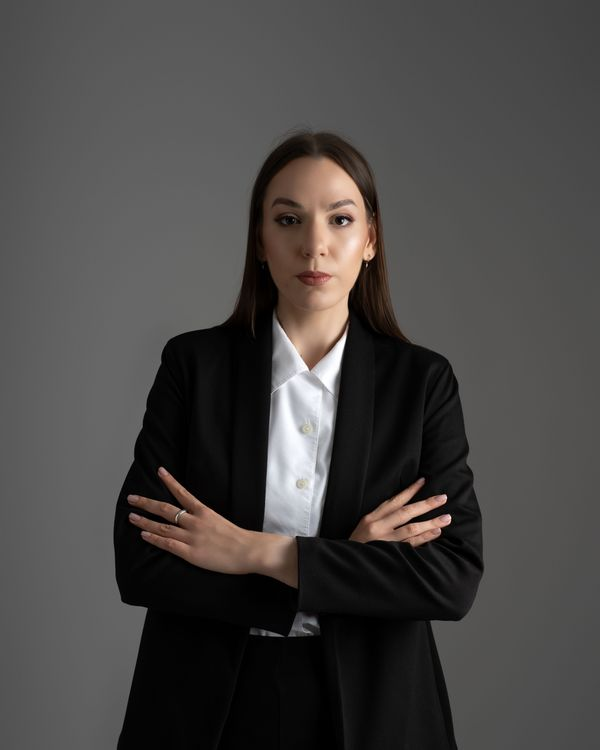
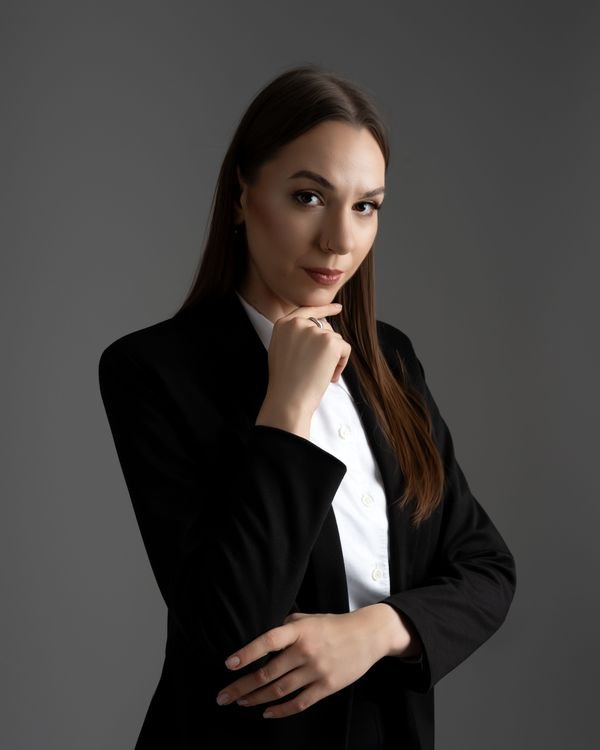
Nowe zdjęcie Aleksandry Szafrańskiej (sesja nr 11)

Changed region(s): [[0.15, 0.0613, 0.87, 1.0]]

diff --git a/index.html b/index.html
@@ -6,7 +6,7 @@
 <meta property="og:type" content="website"><meta property="og:locale" content="pl_PL">
 <link rel="icon" href="assets/favicon.svg" type="image/svg+xml">
 <link rel="preload" href="assets/fonts/serif.woff2" as="font" type="font/woff2" crossorigin>
-<link rel="stylesheet" href="assets/site.css?v=11231059"><script type="application/ld+json">{"@context": "https://schema.org", "@type": "LegalService", "name": "Kancelaria Adwokacka Julita Szataniak-Kulińska", "alternateName": "Kancelaria Adwokacka SZK", "url": "https://kancelariaszk.pl/", "telephone": "+48 667 580 170", "email": "biuro@kancelariaszk.pl", "openingHours": "Mo-Fr 08:00-18:00", "address": [{"@type": "PostalAddress", "streetAddress": "ul. Fabryczna 3 lok. 12", "postalCode": "05-500", "addressLocality": "Piaseczno", "addressCountry": "PL"}, {"@type": "PostalAddress", "streetAddress": "Plac Legionów 6", "postalCode": "98-300", "addressLocality": "Wieluń", "addressCountry": "PL"}], "founder": {"@type": "Person", "name": "Julita Szataniak-Kulińska", "jobTitle": "Adwokat"}}</script></head>
+<link rel="stylesheet" href="assets/site.css?v=11231107"><script type="application/ld+json">{"@context": "https://schema.org", "@type": "LegalService", "name": "Kancelaria Adwokacka Julita Szataniak-Kulińska", "alternateName": "Kancelaria Adwokacka SZK", "url": "https://kancelariaszk.pl/", "telephone": "+48 667 580 170", "email": "biuro@kancelariaszk.pl", "openingHours": "Mo-Fr 08:00-18:00", "address": [{"@type": "PostalAddress", "streetAddress": "ul. Fabryczna 3 lok. 12", "postalCode": "05-500", "addressLocality": "Piaseczno", "addressCountry": "PL"}, {"@type": "PostalAddress", "streetAddress": "Plac Legionów 6", "postalCode": "98-300", "addressLocality": "Wieluń", "addressCountry": "PL"}], "founder": {"@type": "Person", "name": "Julita Szataniak-Kulińska", "jobTitle": "Adwokat"}}</script></head>
 <body><div class="tb"><div class="wrap tb-in"><span class="tb-off"><svg class="ic" viewBox="0 0 24 24" fill="none" stroke="currentColor" stroke-width="1.4" stroke-linecap="round" stroke-linejoin="round" aria-hidden="true"><path d="M12 21s-7-6.1-7-11a7 7 0 0 1 14 0c0 4.9-7 11-7 11zM12 12.5a2.5 2.5 0 1 0 0-5 2.5 2.5 0 0 0 0 5"/></svg>Piaseczno, ul. Fabryczna 3 lok. 12 · Wieluń, Plac Legionów 6</span><span class="tb-c"><a href="tel:+48667580170"><svg class="ic" viewBox="0 0 24 24" fill="none" stroke="currentColor" stroke-width="1.4" stroke-linecap="round" stroke-linejoin="round" aria-hidden="true"><path d="M5 4h4l2 5-2.5 1.5a11 11 0 0 0 5 5L15 13l5 2v4a2 2 0 0 1-2 2A16 16 0 0 1 3 6a2 2 0 0 1 2-2"/></svg>667 580 170</a><a href="mailto:biuro@kancelariaszk.pl"><svg class="ic" viewBox="0 0 24 24" fill="none" stroke="currentColor" stroke-width="1.4" stroke-linecap="round" stroke-linejoin="round" aria-hidden="true"><path d="M3 6h18v12H3zM3 7l9 6 9-6"/></svg>biuro@kancelariaszk.pl</a><span class="tb-h"><svg class="ic" viewBox="0 0 24 24" fill="none" stroke="currentColor" stroke-width="1.4" stroke-linecap="round" stroke-linejoin="round" aria-hidden="true"><path d="M12 3a9 9 0 1 0 0 18 9 9 0 0 0 0-18zM12 7v5l3 2"/></svg>8.00–18.00</span></span></div></div><header class="hd"><div class="wrap hd-in">
 <a class="brand" href="./" aria-label="Kancelaria Adwokacka SZK – strona główna"><img src="assets/logo.svg" alt="Kancelaria Adwokacka Julita Szataniak-Kulińska" width="260" height="57"></a>
 <nav class="nav" id="nav" aria-label="Menu główne"><a href="o-kancelarii/">O kancelarii</a><a href="specjalizacje/">Specjalizacje</a><a href="zespol/">Zespół</a><a href="pomoc-prawna-online/">Pomoc prawna online</a><a href="kontakt/">Kontakt</a><a class="nav-m" href="tel:+48667580170"><svg class="ic" viewBox="0 0 24 24" fill="none" stroke="currentColor" stroke-width="1.4" stroke-linecap="round" stroke-linejoin="round" aria-hidden="true"><path d="M5 4h4l2 5-2.5 1.5a11 11 0 0 0 5 5L15 13l5 2v4a2 2 0 0 1-2 2A16 16 0 0 1 3 6a2 2 0 0 1 2-2"/></svg>667 580 170</a></nav>
@@ -92,4 +92,4 @@
 </div>
 <div class="ft-bot"><span>Kancelaria Adwokacka Julita Szataniak-Kulińska</span><span>NIP 7692236916 · REGON 386762794</span><span>© 2026</span></div>
 </div></footer>
-<script src="assets/site.js?v=11231059" defer></script></body></html>
+<script src="assets/site.js?v=11231107" defer></script></body></html>

diff --git a/specjalizacje/dziedziczenie-i-sukcesja/index.html b/specjalizacje/dziedziczenie-i-sukcesja/index.html
@@ -6,7 +6,7 @@
 <meta property="og:type" content="website"><meta property="og:locale" content="pl_PL">
 <link rel="icon" href="../../assets/favicon.svg" type="image/svg+xml">
 <link rel="preload" href="../../assets/fonts/serif.woff2" as="font" type="font/woff2" crossorigin>
-<link rel="stylesheet" href="../../assets/site.css?v=11231059"></head>
+<link rel="stylesheet" href="../../assets/site.css?v=11231107"></head>
 <body><div class="tb"><div class="wrap tb-in"><span class="tb-off"><svg class="ic" viewBox="0 0 24 24" fill="none" stroke="currentColor" stroke-width="1.4" stroke-linecap="round" stroke-linejoin="round" aria-hidden="true"><path d="M12 21s-7-6.1-7-11a7 7 0 0 1 14 0c0 4.9-7 11-7 11zM12 12.5a2.5 2.5 0 1 0 0-5 2.5 2.5 0 0 0 0 5"/></svg>Piaseczno, ul. Fabryczna 3 lok. 12 · Wieluń, Plac Legionów 6</span><span class="tb-c"><a href="tel:+48667580170"><svg class="ic" viewBox="0 0 24 24" fill="none" stroke="currentColor" stroke-width="1.4" stroke-linecap="round" stroke-linejoin="round" aria-hidden="true"><path d="M5 4h4l2 5-2.5 1.5a11 11 0 0 0 5 5L15 13l5 2v4a2 2 0 0 1-2 2A16 16 0 0 1 3 6a2 2 0 0 1 2-2"/></svg>667 580 170</a><a href="mailto:biuro@kancelariaszk.pl"><svg class="ic" viewBox="0 0 24 24" fill="none" stroke="currentColor" stroke-width="1.4" stroke-linecap="round" stroke-linejoin="round" aria-hidden="true"><path d="M3 6h18v12H3zM3 7l9 6 9-6"/></svg>biuro@kancelariaszk.pl</a><span class="tb-h"><svg class="ic" viewBox="0 0 24 24" fill="none" stroke="currentColor" stroke-width="1.4" stroke-linecap="round" stroke-linejoin="round" aria-hidden="true"><path d="M12 3a9 9 0 1 0 0 18 9 9 0 0 0 0-18zM12 7v5l3 2"/></svg>8.00–18.00</span></span></div></div><header class="hd"><div class="wrap hd-in">
 <a class="brand" href="../../" aria-label="Kancelaria Adwokacka SZK – strona główna"><img src="../../assets/logo.svg" alt="Kancelaria Adwokacka Julita Szataniak-Kulińska" width="260" height="57"></a>
 <nav class="nav" id="nav" aria-label="Menu główne"><a href="../../o-kancelarii/">O kancelarii</a><a href="../../specjalizacje/" class=on aria-current=page>Specjalizacje</a><a href="../../zespol/">Zespół</a><a href="../../pomoc-prawna-online/">Pomoc prawna online</a><a href="../../kontakt/">Kontakt</a><a class="nav-m" href="tel:+48667580170"><svg class="ic" viewBox="0 0 24 24" fill="none" stroke="currentColor" stroke-width="1.4" stroke-linecap="round" stroke-linejoin="round" aria-hidden="true"><path d="M5 4h4l2 5-2.5 1.5a11 11 0 0 0 5 5L15 13l5 2v4a2 2 0 0 1-2 2A16 16 0 0 1 3 6a2 2 0 0 1 2-2"/></svg>667 580 170</a></nav>
@@ -37,4 +37,4 @@
 </div>
 <div class="ft-bot"><span>Kancelaria Adwokacka Julita Szataniak-Kulińska</span><span>NIP 7692236916 · REGON 386762794</span><span>© 2026</span></div>
 </div></footer>
-<script src="../../assets/site.js?v=11231059" defer></script></body></html>
+<script src="../../assets/site.js?v=11231107" defer></script></body></html>

diff --git a/specjalizacje/kontrakty-i-negocjacje/index.html b/specjalizacje/kontrakty-i-negocjacje/index.html
@@ -6,7 +6,7 @@
 <meta property="og:type" content="website"><meta property="og:locale" content="pl_PL">
 <link rel="icon" href="../../assets/favicon.svg" type="image/svg+xml">
 <link rel="preload" href="../../assets/fonts/serif.woff2" as="font" type="font/woff2" crossorigin>
-<link rel="stylesheet" href="../../assets/site.css?v=11231059"></head>
+<link rel="stylesheet" href="../../assets/site.css?v=11231107"></head>
 <body><div class="tb"><div class="wrap tb-in"><span class="tb-off"><svg class="ic" viewBox="0 0 24 24" fill="none" stroke="currentColor" stroke-width="1.4" stroke-linecap="round" stroke-linejoin="round" aria-hidden="true"><path d="M12 21s-7-6.1-7-11a7 7 0 0 1 14 0c0 4.9-7 11-7 11zM12 12.5a2.5 2.5 0 1 0 0-5 2.5 2.5 0 0 0 0 5"/></svg>Piaseczno, ul. Fabryczna 3 lok. 12 · Wieluń, Plac Legionów 6</span><span class="tb-c"><a href="tel:+48667580170"><svg class="ic" viewBox="0 0 24 24" fill="none" stroke="currentColor" stroke-width="1.4" stroke-linecap="round" stroke-linejoin="round" aria-hidden="true"><path d="M5 4h4l2 5-2.5 1.5a11 11 0 0 0 5 5L15 13l5 2v4a2 2 0 0 1-2 2A16 16 0 0 1 3 6a2 2 0 0 1 2-2"/></svg>667 580 170</a><a href="mailto:biuro@kancelariaszk.pl"><svg class="ic" viewBox="0 0 24 24" fill="none" stroke="currentColor" stroke-width="1.4" stroke-linecap="round" stroke-linejoin="round" aria-hidden="true"><path d="M3 6h18v12H3zM3 7l9 6 9-6"/></svg>biuro@kancelariaszk.pl</a><span class="tb-h"><svg class="ic" viewBox="0 0 24 24" fill="none" stroke="currentColor" stroke-width="1.4" stroke-linecap="round" stroke-linejoin="round" aria-hidden="true"><path d="M12 3a9 9 0 1 0 0 18 9 9 0 0 0 0-18zM12 7v5l3 2"/></svg>8.00–18.00</span></span></div></div><header class="hd"><div class="wrap hd-in">
 <a class="brand" href="../../" aria-label="Kancelaria Adwokacka SZK – strona główna"><img src="../../assets/logo.svg" alt="Kancelaria Adwokacka Julita Szataniak-Kulińska" width="260" height="57"></a>
 <nav class="nav" id="nav" aria-label="Menu główne"><a href="../../o-kancelarii/">O kancelarii</a><a href="../../specjalizacje/" class=on aria-current=page>Specjalizacje</a><a href="../../zespol/">Zespół</a><a href="../../pomoc-prawna-online/">Pomoc prawna online</a><a href="../../kontakt/">Kontakt</a><a class="nav-m" href="tel:+48667580170"><svg class="ic" viewBox="0 0 24 24" fill="none" stroke="currentColor" stroke-width="1.4" stroke-linecap="round" stroke-linejoin="round" aria-hidden="true"><path d="M5 4h4l2 5-2.5 1.5a11 11 0 0 0 5 5L15 13l5 2v4a2 2 0 0 1-2 2A16 16 0 0 1 3 6a2 2 0 0 1 2-2"/></svg>667 580 170</a></nav>
@@ -37,4 +37,4 @@
 </div>
 <div class="ft-bot"><span>Kancelaria Adwokacka Julita Szataniak-Kulińska</span><span>NIP 7692236916 · REGON 386762794</span><span>© 2026</span></div>
 </div></footer>
-<script src="../../assets/site.js?v=11231059" defer></script></body></html>
+<script src="../../assets/site.js?v=11231107" defer></script></body></html>

diff --git a/specjalizacje/negocjacje-i-ugody/index.html b/specjalizacje/negocjacje-i-ugody/index.html
@@ -6,7 +6,7 @@
 <meta property="og:type" content="website"><meta property="og:locale" content="pl_PL">
 <link rel="icon" href="../../assets/favicon.svg" type="image/svg+xml">
 <link rel="preload" href="../../assets/fonts/serif.woff2" as="font" type="font/woff2" crossorigin>
-<link rel="stylesheet" href="../../assets/site.css?v=11231059"></head>
+<link rel="stylesheet" href="../../assets/site.css?v=11231107"></head>
 <body><div class="tb"><div class="wrap tb-in"><span class="tb-off"><svg class="ic" viewBox="0 0 24 24" fill="none" stroke="currentColor" stroke-width="1.4" stroke-linecap="round" stroke-linejoin="round" aria-hidden="true"><path d="M12 21s-7-6.1-7-11a7 7 0 0 1 14 0c0 4.9-7 11-7 11zM12 12.5a2.5 2.5 0 1 0 0-5 2.5 2.5 0 0 0 0 5"/></svg>Piaseczno, ul. Fabryczna 3 lok. 12 · Wieluń, Plac Legionów 6</span><span class="tb-c"><a href="tel:+48667580170"><svg class="ic" viewBox="0 0 24 24" fill="none" stroke="currentColor" stroke-width="1.4" stroke-linecap="round" stroke-linejoin="round" aria-hidden="true"><path d="M5 4h4l2 5-2.5 1.5a11 11 0 0 0 5 5L15 13l5 2v4a2 2 0 0 1-2 2A16 16 0 0 1 3 6a2 2 0 0 1 2-2"/></svg>667 580 170</a><a href="mailto:biuro@kancelariaszk.pl"><svg class="ic" viewBox="0 0 24 24" fill="none" stroke="currentColor" stroke-width="1.4" stroke-linecap="round" stroke-linejoin="round" aria-hidden="true"><path d="M3 6h18v12H3zM3 7l9 6 9-6"/></svg>biuro@kancelariaszk.pl</a><span class="tb-h"><svg class="ic" viewBox="0 0 24 24" fill="none" stroke="currentColor" stroke-width="1.4" stroke-linecap="round" stroke-linejoin="round" aria-hidden="true"><path d="M12 3a9 9 0 1 0 0 18 9 9 0 0 0 0-18zM12 7v5l3 2"/></svg>8.00–18.00</span></span></div></div><header class="hd"><div class="wrap hd-in">
 <a class="brand" href="../../" aria-label="Kancelaria Adwokacka SZK – strona główna"><img src="../../assets/logo.svg" alt="Kancelaria Adwokacka Julita Szataniak-Kulińska" width="260" height="57"></a>
 <nav class="nav" id="nav" aria-label="Menu główne"><a href="../../o-kancelarii/">O kancelarii</a><a href="../../specjalizacje/" class=on aria-current=page>Specjalizacje</a><a href="../../zespol/">Zespół</a><a href="../../pomoc-prawna-online/">Pomoc prawna online</a><a href="../../kontakt/">Kontakt</a><a class="nav-m" href="tel:+48667580170"><svg class="ic" viewBox="0 0 24 24" fill="none" stroke="currentColor" stroke-width="1.4" stroke-linecap="round" stroke-linejoin="round" aria-hidden="true"><path d="M5 4h4l2 5-2.5 1.5a11 11 0 0 0 5 5L15 13l5 2v4a2 2 0 0 1-2 2A16 16 0 0 1 3 6a2 2 0 0 1 2-2"/></svg>667 580 170</a></nav>
@@ -37,4 +37,4 @@
 </div>
 <div class="ft-bot"><span>Kancelaria Adwokacka Julita Szataniak-Kulińska</span><span>NIP 7692236916 · REGON 386762794</span><span>© 2026</span></div>
 </div></footer>
-<script src="../../assets/site.js?v=11231059" defer></script></body></html>
+<script src="../../assets/site.js?v=11231107" defer></script></body></html>

diff --git a/specjalizacje/nieruchomosci-i-inwestycje/index.html b/specjalizacje/nieruchomosci-i-inwestycje/index.html
@@ -6,7 +6,7 @@
 <meta property="og:type" content="website"><meta property="og:locale" content="pl_PL">
 <link rel="icon" href="../../assets/favicon.svg" type="image/svg+xml">
 <link rel="preload" href="../../assets/fonts/serif.woff2" as="font" type="font/woff2" crossorigin>
-<link rel="stylesheet" href="../../assets/site.css?v=11231059"></head>
+<link rel="stylesheet" href="../../assets/site.css?v=11231107"></head>
 <body><div class="tb"><div class="wrap tb-in"><span class="tb-off"><svg class="ic" viewBox="0 0 24 24" fill="none" stroke="currentColor" stroke-width="1.4" stroke-linecap="round" stroke-linejoin="round" aria-hidden="true"><path d="M12 21s-7-6.1-7-11a7 7 0 0 1 14 0c0 4.9-7 11-7 11zM12 12.5a2.5 2.5 0 1 0 0-5 2.5 2.5 0 0 0 0 5"/></svg>Piaseczno, ul. Fabryczna 3 lok. 12 · Wieluń, Plac Legionów 6</span><span class="tb-c"><a href="tel:+48667580170"><svg class="ic" viewBox="0 0 24 24" fill="none" stroke="currentColor" stroke-width="1.4" stroke-linecap="round" stroke-linejoin="round" aria-hidden="true"><path d="M5 4h4l2 5-2.5 1.5a11 11 0 0 0 5 5L15 13l5 2v4a2 2 0 0 1-2 2A16 16 0 0 1 3 6a2 2 0 0 1 2-2"/></svg>667 580 170</a><a href="mailto:biuro@kancelariaszk.pl"><svg class="ic" viewBox="0 0 24 24" fill="none" stroke="currentColor" stroke-width="1.4" stroke-linecap="round" stroke-linejoin="round" aria-hidden="true"><path d="M3 6h18v12H3zM3 7l9 6 9-6"/></svg>biuro@kancelariaszk.pl</a><span class="tb-h"><svg class="ic" viewBox="0 0 24 24" fill="none" stroke="currentColor" stroke-width="1.4" stroke-linecap="round" stroke-linejoin="round" aria-hidden="true"><path d="M12 3a9 9 0 1 0 0 18 9 9 0 0 0 0-18zM12 7v5l3 2"/></svg>8.00–18.00</span></span></div></div><header class="hd"><div class="wrap hd-in">
 <a class="brand" href="../../" aria-label="Kancelaria Adwokacka SZK – strona główna"><img src="../../assets/logo.svg" alt="Kancelaria Adwokacka Julita Szataniak-Kulińska" width="260" height="57"></a>
 <nav class="nav" id="nav" aria-label="Menu główne"><a href="../../o-kancelarii/">O kancelarii</a><a href="../../specjalizacje/" class=on aria-current=page>Specjalizacje</a><a href="../../zespol/">Zespół</a><a href="../../pomoc-prawna-online/">Pomoc prawna online</a><a href="../../kontakt/">Kontakt</a><a class="nav-m" href="tel:+48667580170"><svg class="ic" viewBox="0 0 24 24" fill="none" stroke="currentColor" stroke-width="1.4" stroke-linecap="round" stroke-linejoin="round" aria-hidden="true"><path d="M5 4h4l2 5-2.5 1.5a11 11 0 0 0 5 5L15 13l5 2v4a2 2 0 0 1-2 2A16 16 0 0 1 3 6a2 2 0 0 1 2-2"/></svg>667 580 170</a></nav>
@@ -37,4 +37,4 @@
 </div>
 <div class="ft-bot"><span>Kancelaria Adwokacka Julita Szataniak-Kulińska</span><span>NIP 7692236916 · REGON 386762794</span><span>© 2026</span></div>
 </div></footer>
-<script src="../../assets/site.js?v=11231059" defer></script></body></html>
+<script src="../../assets/site.js?v=11231107" defer></script></body></html>

diff --git a/specjalizacje/obsluga-prawna-przedsiebiorcow/index.html b/specjalizacje/obsluga-prawna-przedsiebiorcow/index.html
@@ -6,7 +6,7 @@
 <meta property="og:type" content="website"><meta property="og:locale" content="pl_PL">
 <link rel="icon" href="../../assets/favicon.svg" type="image/svg+xml">
 <link rel="preload" href="../../assets/fonts/serif.woff2" as="font" type="font/woff2" crossorigin>
-<link rel="stylesheet" href="../../assets/site.css?v=11231059"></head>
+<link rel="stylesheet" href="../../assets/site.css?v=11231107"></head>
 <body><div class="tb"><div class="wrap tb-in"><span class="tb-off"><svg class="ic" viewBox="0 0 24 24" fill="none" stroke="currentColor" stroke-width="1.4" stroke-linecap="round" stroke-linejoin="round" aria-hidden="true"><path d="M12 21s-7-6.1-7-11a7 7 0 0 1 14 0c0 4.9-7 11-7 11zM12 12.5a2.5 2.5 0 1 0 0-5 2.5 2.5 0 0 0 0 5"/></svg>Piaseczno, ul. Fabryczna 3 lok. 12 · Wieluń, Plac Legionów 6</span><span class="tb-c"><a href="tel:+48667580170"><svg class="ic" viewBox="0 0 24 24" fill="none" stroke="currentColor" stroke-width="1.4" stroke-linecap="round" stroke-linejoin="round" aria-hidden="true"><path d="M5 4h4l2 5-2.5 1.5a11 11 0 0 0 5 5L15 13l5 2v4a2 2 0 0 1-2 2A16 16 0 0 1 3 6a2 2 0 0 1 2-2"/></svg>667 580 170</a><a href="mailto:biuro@kancelariaszk.pl"><svg class="ic" viewBox="0 0 24 24" fill="none" stroke="currentColor" stroke-width="1.4" stroke-linecap="round" stroke-linejoin="round" aria-hidden="true"><path d="M3 6h18v12H3zM3 7l9 6 9-6"/></svg>biuro@kancelariaszk.pl</a><span class="tb-h"><svg class="ic" viewBox="0 0 24 24" fill="none" stroke="currentColor" stroke-width="1.4" stroke-linecap="round" stroke-linejoin="round" aria-hidden="true"><path d="M12 3a9 9 0 1 0 0 18 9 9 0 0 0 0-18zM12 7v5l3 2"/></svg>8.00–18.00</span></span></div></div><header class="hd"><div class="wrap hd-in">
 <a class="brand" href="../../" aria-label="Kancelaria Adwokacka SZK – strona główna"><img src="../../assets/logo.svg" alt="Kancelaria Adwokacka Julita Szataniak-Kulińska" width="260" height="57"></a>
 <nav class="nav" id="nav" aria-label="Menu główne"><a href="../../o-kancelarii/">O kancelarii</a><a href="../../specjalizacje/" class=on aria-current=page>Specjalizacje</a><a href="../../zespol/">Zespół</a><a href="../../pomoc-prawna-online/">Pomoc prawna online</a><a href="../../kontakt/">Kontakt</a><a class="nav-m" href="tel:+48667580170"><svg class="ic" viewBox="0 0 24 24" fill="none" stroke="currentColor" stroke-width="1.4" stroke-linecap="round" stroke-linejoin="round" aria-hidden="true"><path d="M5 4h4l2 5-2.5 1.5a11 11 0 0 0 5 5L15 13l5 2v4a2 2 0 0 1-2 2A16 16 0 0 1 3 6a2 2 0 0 1 2-2"/></svg>667 580 170</a></nav>
@@ -37,4 +37,4 @@
 </div>
 <div class="ft-bot"><span>Kancelaria Adwokacka Julita Szataniak-Kulińska</span><span>NIP 7692236916 · REGON 386762794</span><span>© 2026</span></div>
 </div></footer>
-<script src="../../assets/site.js?v=11231059" defer></script></body></html>
+<script src="../../assets/site.js?v=11231107" defer></script></body></html>

diff --git a/specjalizacje/ochrona-dobr-osobistych/index.html b/specjalizacje/ochrona-dobr-osobistych/index.html
@@ -6,7 +6,7 @@
 <meta property="og:type" content="website"><meta property="og:locale" content="pl_PL">
 <link rel="icon" href="../../assets/favicon.svg" type="image/svg+xml">
 <link rel="preload" href="../../assets/fonts/serif.woff2" as="font" type="font/woff2" crossorigin>
-<link rel="stylesheet" href="../../assets/site.css?v=11231059"></head>
+<link rel="stylesheet" href="../../assets/site.css?v=11231107"></head>
 <body><div class="tb"><div class="wrap tb-in"><span class="tb-off"><svg class="ic" viewBox="0 0 24 24" fill="none" stroke="currentColor" stroke-width="1.4" stroke-linecap="round" stroke-linejoin="round" aria-hidden="true"><path d="M12 21s-7-6.1-7-11a7 7 0 0 1 14 0c0 4.9-7 11-7 11zM12 12.5a2.5 2.5 0 1 0 0-5 2.5 2.5 0 0 0 0 5"/></svg>Piaseczno, ul. Fabryczna 3 lok. 12 · Wieluń, Plac Legionów 6</span><span class="tb-c"><a href="tel:+48667580170"><svg class="ic" viewBox="0 0 24 24" fill="none" stroke="currentColor" stroke-width="1.4" stroke-linecap="round" stroke-linejoin="round" aria-hidden="true"><path d="M5 4h4l2 5-2.5 1.5a11 11 0 0 0 5 5L15 13l5 2v4a2 2 0 0 1-2 2A16 16 0 0 1 3 6a2 2 0 0 1 2-2"/></svg>667 580 170</a><a href="mailto:biuro@kancelariaszk.pl"><svg class="ic" viewBox="0 0 24 24" fill="none" stroke="currentColor" stroke-width="1.4" stroke-linecap="round" stroke-linejoin="round" aria-hidden="true"><path d="M3 6h18v12H3zM3 7l9 6 9-6"/></svg>biuro@kancelariaszk.pl</a><span class="tb-h"><svg class="ic" viewBox="0 0 24 24" fill="none" stroke="currentColor" stroke-width="1.4" stroke-linecap="round" stroke-linejoin="round" aria-hidden="true"><path d="M12 3a9 9 0 1 0 0 18 9 9 0 0 0 0-18zM12 7v5l3 2"/></svg>8.00–18.00</span></span></div></div><header class="hd"><div class="wrap hd-in">
 <a class="brand" href="../../" aria-label="Kancelaria Adwokacka SZK – strona główna"><img src="../../assets/logo.svg" alt="Kancelaria Adwokacka Julita Szataniak-Kulińska" width="260" height="57"></a>
 <nav class="nav" id="nav" aria-label="Menu główne"><a href="../../o-kancelarii/">O kancelarii</a><a href="../../specjalizacje/" class=on aria-current=page>Specjalizacje</a><a href="../../zespol/">Zespół</a><a href="../../pomoc-prawna-online/">Pomoc prawna online</a><a href="../../kontakt/">Kontakt</a><a class="nav-m" href="tel:+48667580170"><svg class="ic" viewBox="0 0 24 24" fill="none" stroke="currentColor" stroke-width="1.4" stroke-linecap="round" stroke-linejoin="round" aria-hidden="true"><path d="M5 4h4l2 5-2.5 1.5a11 11 0 0 0 5 5L15 13l5 2v4a2 2 0 0 1-2 2A16 16 0 0 1 3 6a2 2 0 0 1 2-2"/></svg>667 580 170</a></nav>
@@ -37,4 +37,4 @@
 </div>
 <div class="ft-bot"><span>Kancelaria Adwokacka Julita Szataniak-Kulińska</span><span>NIP 7692236916 · REGON 386762794</span><span>© 2026</span></div>
 </div></footer>
-<script src="../../assets/site.js?v=11231059" defer></script></body></html>
+<script src="../../assets/site.js?v=11231107" defer></script></body></html>

diff --git a/specjalizacje/odszkodowania-i-roszczenia/index.html b/specjalizacje/odszkodowania-i-roszczenia/index.html
@@ -6,7 +6,7 @@
 <meta property="og:type" content="website"><meta property="og:locale" content="pl_PL">
 <link rel="icon" href="../../assets/favicon.svg" type="image/svg+xml">
 <link rel="preload" href="../../assets/fonts/serif.woff2" as="font" type="font/woff2" crossorigin>
-<link rel="stylesheet" href="../../assets/site.css?v=11231059"></head>
+<link rel="stylesheet" href="../../assets/site.css?v=11231107"></head>
 <body><div class="tb"><div class="wrap tb-in"><span class="tb-off"><svg class="ic" viewBox="0 0 24 24" fill="none" stroke="currentColor" stroke-width="1.4" stroke-linecap="round" stroke-linejoin="round" aria-hidden="true"><path d="M12 21s-7-6.1-7-11a7 7 0 0 1 14 0c0 4.9-7 11-7 11zM12 12.5a2.5 2.5 0 1 0 0-5 2.5 2.5 0 0 0 0 5"/></svg>Piaseczno, ul. Fabryczna 3 lok. 12 · Wieluń, Plac Legionów 6</span><span class="tb-c"><a href="tel:+48667580170"><svg class="ic" viewBox="0 0 24 24" fill="none" stroke="currentColor" stroke-width="1.4" stroke-linecap="round" stroke-linejoin="round" aria-hidden="true"><path d="M5 4h4l2 5-2.5 1.5a11 11 0 0 0 5 5L15 13l5 2v4a2 2 0 0 1-2 2A16 16 0 0 1 3 6a2 2 0 0 1 2-2"/></svg>667 580 170</a><a href="mailto:biuro@kancelariaszk.pl"><svg class="ic" viewBox="0 0 24 24" fill="none" stroke="currentColor" stroke-width="1.4" stroke-linecap="round" stroke-linejoin="round" aria-hidden="true"><path d="M3 6h18v12H3zM3 7l9 6 9-6"/></svg>biuro@kancelariaszk.pl</a><span class="tb-h"><svg class="ic" viewBox="0 0 24 24" fill="none" stroke="currentColor" stroke-width="1.4" stroke-linecap="round" stroke-linejoin="round" aria-hidden="true"><path d="M12 3a9 9 0 1 0 0 18 9 9 0 0 0 0-18zM12 7v5l3 2"/></svg>8.00–18.00</span></span></div></div><header class="hd"><div class="wrap hd-in">
 <a class="brand" href="../../" aria-label="Kancelaria Adwokacka SZK – strona główna"><img src="../../assets/logo.svg" alt="Kancelaria Adwokacka Julita Szataniak-Kulińska" width="260" height="57"></a>
 <nav class="nav" id="nav" aria-label="Menu główne"><a href="../../o-kancelarii/">O kancelarii</a><a href="../../specjalizacje/" class=on aria-current=page>Specjalizacje</a><a href="../../zespol/">Zespół</a><a href="../../pomoc-prawna-online/">Pomoc prawna online</a><a href="../../kontakt/">Kontakt</a><a class="nav-m" href="tel:+48667580170"><svg class="ic" viewBox="0 0 24 24" fill="none" stroke="currentColor" stroke-width="1.4" stroke-linecap="round" stroke-linejoin="round" aria-hidden="true"><path d="M5 4h4l2 5-2.5 1.5a11 11 0 0 0 5 5L15 13l5 2v4a2 2 0 0 1-2 2A16 16 0 0 1 3 6a2 2 0 0 1 2-2"/></svg>667 580 170</a></nav>
@@ -37,4 +37,4 @@
 </div>
 <div class="ft-bot"><span>Kancelaria Adwokacka Julita Szataniak-Kulińska</span><span>NIP 7692236916 · REGON 386762794</span><span>© 2026</span></div>
 </div></footer>
-<script src="../../assets/site.js?v=11231059" defer></script></body></html>
+<script src="../../assets/site.js?v=11231107" defer></script></body></html>

diff --git a/specjalizacje/postepowania-administracyjne/index.html b/specjalizacje/postepowania-administracyjne/index.html
@@ -6,7 +6,7 @@
 <meta property="og:type" content="website"><meta property="og:locale" content="pl_PL">
 <link rel="icon" href="../../assets/favicon.svg" type="image/svg+xml">
 <link rel="preload" href="../../assets/fonts/serif.woff2" as="font" type="font/woff2" crossorigin>
-<link rel="stylesheet" href="../../assets/site.css?v=11231059"></head>
+<link rel="stylesheet" href="../../assets/site.css?v=11231107"></head>
 <body><div class="tb"><div class="wrap tb-in"><span class="tb-off"><svg class="ic" viewBox="0 0 24 24" fill="none" stroke="currentColor" stroke-width="1.4" stroke-linecap="round" stroke-linejoin="round" aria-hidden="true"><path d="M12 21s-7-6.1-7-11a7 7 0 0 1 14 0c0 4.9-7 11-7 11zM12 12.5a2.5 2.5 0 1 0 0-5 2.5 2.5 0 0 0 0 5"/></svg>Piaseczno, ul. Fabryczna 3 lok. 12 · Wieluń, Plac Legionów 6</span><span class="tb-c"><a href="tel:+48667580170"><svg class="ic" viewBox="0 0 24 24" fill="none" stroke="currentColor" stroke-width="1.4" stroke-linecap="round" stroke-linejoin="round" aria-hidden="true"><path d="M5 4h4l2 5-2.5 1.5a11 11 0 0 0 5 5L15 13l5 2v4a2 2 0 0 1-2 2A16 16 0 0 1 3 6a2 2 0 0 1 2-2"/></svg>667 580 170</a><a href="mailto:biuro@kancelariaszk.pl"><svg class="ic" viewBox="0 0 24 24" fill="none" stroke="currentColor" stroke-width="1.4" stroke-linecap="round" stroke-linejoin="round" aria-hidden="true"><path d="M3 6h18v12H3zM3 7l9 6 9-6"/></svg>biuro@kancelariaszk.pl</a><span class="tb-h"><svg class="ic" viewBox="0 0 24 24" fill="none" stroke="currentColor" stroke-width="1.4" stroke-linecap="round" stroke-linejoin="round" aria-hidden="true"><path d="M12 3a9 9 0 1 0 0 18 9 9 0 0 0 0-18zM12 7v5l3 2"/></svg>8.00–18.00</span></span></div></div><header class="hd"><div class="wrap hd-in">
 <a class="brand" href="../../" aria-label="Kancelaria Adwokacka SZK – strona główna"><img src="../../assets/logo.svg" alt="Kancelaria Adwokacka Julita Szataniak-Kulińska" width="260" height="57"></a>
 <nav class="nav" id="nav" aria-label="Menu główne"><a href="../../o-kancelarii/">O kancelarii</a><a href="../../specjalizacje/" class=on aria-current=page>Specjalizacje</a><a href="../../zespol/">Zespół</a><a href="../../pomoc-prawna-online/">Pomoc prawna online</a><a href="../../kontakt/">Kontakt</a><a class="nav-m" href="tel:+48667580170"><svg class="ic" viewBox="0 0 24 24" fill="none" stroke="currentColor" stroke-width="1.4" stroke-linecap="round" stroke-linejoin="round" aria-hidden="true"><path d="M5 4h4l2 5-2.5 1.5a11 11 0 0 0 5 5L15 13l5 2v4a2 2 0 0 1-2 2A16 16 0 0 1 3 6a2 2 0 0 1 2-2"/></svg>667 580 170</a></nav>
@@ -37,4 +37,4 @@
 </div>
 <div class="ft-bot"><span>Kancelaria Adwokacka Julita Szataniak-Kulińska</span><span>NIP 7692236916 · REGON 386762794</span><span>© 2026</span></div>
 </div></footer>
-<script src="../../assets/site.js?v=11231059" defer></script></body></html>
+<script src="../../assets/site.js?v=11231107" defer></script></body></html>

diff --git a/specjalizacje/prawo-pracy-hr/index.html b/specjalizacje/prawo-pracy-hr/index.html
@@ -6,7 +6,7 @@
 <meta property="og:type" content="website"><meta property="og:locale" content="pl_PL">
 <link rel="icon" href="../../assets/favicon.svg" type="image/svg+xml">
 <link rel="preload" href="../../assets/fonts/serif.woff2" as="font" type="font/woff2" crossorigin>
-<link rel="stylesheet" href="../../assets/site.css?v=11231059"></head>
+<link rel="stylesheet" href="../../assets/site.css?v=11231107"></head>
 <body><div class="tb"><div class="wrap tb-in"><span class="tb-off"><svg class="ic" viewBox="0 0 24 24" fill="none" stroke="currentColor" stroke-width="1.4" stroke-linecap="round" stroke-linejoin="round" aria-hidden="true"><path d="M12 21s-7-6.1-7-11a7 7 0 0 1 14 0c0 4.9-7 11-7 11zM12 12.5a2.5 2.5 0 1 0 0-5 2.5 2.5 0 0 0 0 5"/></svg>Piaseczno, ul. Fabryczna 3 lok. 12 · Wieluń, Plac Legionów 6</span><span class="tb-c"><a href="tel:+48667580170"><svg class="ic" viewBox="0 0 24 24" fill="none" stroke="currentColor" stroke-width="1.4" stroke-linecap="round" stroke-linejoin="round" aria-hidden="true"><path d="M5 4h4l2 5-2.5 1.5a11 11 0 0 0 5 5L15 13l5 2v4a2 2 0 0 1-2 2A16 16 0 0 1 3 6a2 2 0 0 1 2-2"/></svg>667 580 170</a><a href="mailto:biuro@kancelariaszk.pl"><svg class="ic" viewBox="0 0 24 24" fill="none" stroke="currentColor" stroke-width="1.4" stroke-linecap="round" stroke-linejoin="round" aria-hidden="true"><path d="M3 6h18v12H3zM3 7l9 6 9-6"/></svg>biuro@kancelariaszk.pl</a><span class="tb-h"><svg class="ic" viewBox="0 0 24 24" fill="none" stroke="currentColor" stroke-width="1.4" stroke-linecap="round" stroke-linejoin="round" aria-hidden="true"><path d="M12 3a9 9 0 1 0 0 18 9 9 0 0 0 0-18zM12 7v5l3 2"/></svg>8.00–18.00</span></span></div></div><header class="hd"><div class="wrap hd-in">
 <a class="brand" href="../../" aria-label="Kancelaria Adwokacka SZK – strona główna"><img src="../../assets/logo.svg" alt="Kancelaria Adwokacka Julita Szataniak-Kulińska" width="260" height="57"></a>
 <nav class="nav" id="nav" aria-label="Menu główne"><a href="../../o-kancelarii/">O kancelarii</a><a href="../../specjalizacje/" class=on aria-current=page>Specjalizacje</a><a href="../../zespol/">Zespół</a><a href="../../pomoc-prawna-online/">Pomoc prawna online</a><a href="../../kontakt/">Kontakt</a><a class="nav-m" href="tel:+48667580170"><svg class="ic" viewBox="0 0 24 24" fill="none" stroke="currentColor" stroke-width="1.4" stroke-linecap="round" stroke-linejoin="round" aria-hidden="true"><path d="M5 4h4l2 5-2.5 1.5a11 11 0 0 0 5 5L15 13l5 2v4a2 2 0 0 1-2 2A16 16 0 0 1 3 6a2 2 0 0 1 2-2"/></svg>667 580 170</a></nav>
@@ -37,4 +37,4 @@
 </div>
 <div class="ft-bot"><span>Kancelaria Adwokacka Julita Szataniak-Kulińska</span><span>NIP 7692236916 · REGON 386762794</span><span>© 2026</span></div>
 </div></footer>
-<script src="../../assets/site.js?v=11231059" defer></script></body></html>
+<script src="../../assets/site.js?v=11231107" defer></script></body></html>

diff --git a/specjalizacje/spory-sadowe/index.html b/specjalizacje/spory-sadowe/index.html
@@ -6,7 +6,7 @@
 <meta property="og:type" content="website"><meta property="og:locale" content="pl_PL">
 <link rel="icon" href="../../assets/favicon.svg" type="image/svg+xml">
 <link rel="preload" href="../../assets/fonts/serif.woff2" as="font" type="font/woff2" crossorigin>
-<link rel="stylesheet" href="../../assets/site.css?v=11231059"></head>
+<link rel="stylesheet" href="../../assets/site.css?v=11231107"></head>
 <body><div class="tb"><div class="wrap tb-in"><span class="tb-off"><svg class="ic" viewBox="0 0 24 24" fill="none" stroke="currentColor" stroke-width="1.4" stroke-linecap="round" stroke-linejoin="round" aria-hidden="true"><path d="M12 21s-7-6.1-7-11a7 7 0 0 1 14 0c0 4.9-7 11-7 11zM12 12.5a2.5 2.5 0 1 0 0-5 2.5 2.5 0 0 0 0 5"/></svg>Piaseczno, ul. Fabryczna 3 lok. 12 · Wieluń, Plac Legionów 6</span><span class="tb-c"><a href="tel:+48667580170"><svg class="ic" viewBox="0 0 24 24" fill="none" stroke="currentColor" stroke-width="1.4" stroke-linecap="round" stroke-linejoin="round" aria-hidden="true"><path d="M5 4h4l2 5-2.5 1.5a11 11 0 0 0 5 5L15 13l5 2v4a2 2 0 0 1-2 2A16 16 0 0 1 3 6a2 2 0 0 1 2-2"/></svg>667 580 170</a><a href="mailto:biuro@kancelariaszk.pl"><svg class="ic" viewBox="0 0 24 24" fill="none" stroke="currentColor" stroke-width="1.4" stroke-linecap="round" stroke-linejoin="round" aria-hidden="true"><path d="M3 6h18v12H3zM3 7l9 6 9-6"/></svg>biuro@kancelariaszk.pl</a><span class="tb-h"><svg class="ic" viewBox="0 0 24 24" fill="none" stroke="currentColor" stroke-width="1.4" stroke-linecap="round" stroke-linejoin="round" aria-hidden="true"><path d="M12 3a9 9 0 1 0 0 18 9 9 0 0 0 0-18zM12 7v5l3 2"/></svg>8.00–18.00</span></span></div></div><header class="hd"><div class="wrap hd-in">
 <a class="brand" href="../../" aria-label="Kancelaria Adwokacka SZK – strona główna"><img src="../../assets/logo.svg" alt="Kancelaria Adwokacka Julita Szataniak-Kulińska" width="260" height="57"></a>
 <nav class="nav" id="nav" aria-label="Menu główne"><a href="../../o-kancelarii/">O kancelarii</a><a href="../../specjalizacje/" class=on aria-current=page>Specjalizacje</a><a href="../../zespol/">Zespół</a><a href="../../pomoc-prawna-online/">Pomoc prawna online</a><a href="../../kontakt/">Kontakt</a><a class="nav-m" href="tel:+48667580170"><svg class="ic" viewBox="0 0 24 24" fill="none" stroke="currentColor" stroke-width="1.4" stroke-linecap="round" stroke-linejoin="round" aria-hidden="true"><path d="M5 4h4l2 5-2.5 1.5a11 11 0 0 0 5 5L15 13l5 2v4a2 2 0 0 1-2 2A16 16 0 0 1 3 6a2 2 0 0 1 2-2"/></svg>667 580 170</a></nav>
@@ -37,4 +37,4 @@
 </div>
 <div class="ft-bot"><span>Kancelaria Adwokacka Julita Szataniak-Kulińska</span><span>NIP 7692236916 · REGON 386762794</span><span>© 2026</span></div>
 </div></footer>
-<script src="../../assets/site.js?v=11231059" defer></script></body></html>
+<script src="../../assets/site.js?v=11231107" defer></script></body></html>

diff --git a/specjalizacje/sprawy-rodzinne/index.html b/specjalizacje/sprawy-rodzinne/index.html
@@ -6,7 +6,7 @@
 <meta property="og:type" content="website"><meta property="og:locale" content="pl_PL">
 <link rel="icon" href="../../assets/favicon.svg" type="image/svg+xml">
 <link rel="preload" href="../../assets/fonts/serif.woff2" as="font" type="font/woff2" crossorigin>
-<link rel="stylesheet" href="../../assets/site.css?v=11231059"></head>
+<link rel="stylesheet" href="../../assets/site.css?v=11231107"></head>
 <body><div class="tb"><div class="wrap tb-in"><span class="tb-off"><svg class="ic" viewBox="0 0 24 24" fill="none" stroke="currentColor" stroke-width="1.4" stroke-linecap="round" stroke-linejoin="round" aria-hidden="true"><path d="M12 21s-7-6.1-7-11a7 7 0 0 1 14 0c0 4.9-7 11-7 11zM12 12.5a2.5 2.5 0 1 0 0-5 2.5 2.5 0 0 0 0 5"/></svg>Piaseczno, ul. Fabryczna 3 lok. 12 · Wieluń, Plac Legionów 6</span><span class="tb-c"><a href="tel:+48667580170"><svg class="ic" viewBox="0 0 24 24" fill="none" stroke="currentColor" stroke-width="1.4" stroke-linecap="round" stroke-linejoin="round" aria-hidden="true"><path d="M5 4h4l2 5-2.5 1.5a11 11 0 0 0 5 5L15 13l5 2v4a2 2 0 0 1-2 2A16 16 0 0 1 3 6a2 2 0 0 1 2-2"/></svg>667 580 170</a><a href="mailto:biuro@kancelariaszk.pl"><svg class="ic" viewBox="0 0 24 24" fill="none" stroke="currentColor" stroke-width="1.4" stroke-linecap="round" stroke-linejoin="round" aria-hidden="true"><path d="M3 6h18v12H3zM3 7l9 6 9-6"/></svg>biuro@kancelariaszk.pl</a><span class="tb-h"><svg class="ic" viewBox="0 0 24 24" fill="none" stroke="currentColor" stroke-width="1.4" stroke-linecap="round" stroke-linejoin="round" aria-hidden="true"><path d="M12 3a9 9 0 1 0 0 18 9 9 0 0 0 0-18zM12 7v5l3 2"/></svg>8.00–18.00</span></span></div></div><header class="hd"><div class="wrap hd-in">
 <a class="brand" href="../../" aria-label="Kancelaria Adwokacka SZK – strona główna"><img src="../../assets/logo.svg" alt="Kancelaria Adwokacka Julita Szataniak-Kulińska" width="260" height="57"></a>
 <nav class="nav" id="nav" aria-label="Menu główne"><a href="../../o-kancelarii/">O kancelarii</a><a href="../../specjalizacje/" class=on aria-current=page>Specjalizacje</a><a href="../../zespol/">Zespół</a><a href="../../pomoc-prawna-online/">Pomoc prawna online</a><a href="../../kontakt/">Kontakt</a><a class="nav-m" href="tel:+48667580170"><svg class="ic" viewBox="0 0 24 24" fill="none" stroke="currentColor" stroke-width="1.4" stroke-linecap="round" stroke-linejoin="round" aria-hidden="true"><path d="M5 4h4l2 5-2.5 1.5a11 11 0 0 0 5 5L15 13l5 2v4a2 2 0 0 1-2 2A16 16 0 0 1 3 6a2 2 0 0 1 2-2"/></svg>667 580 170</a></nav>
@@ -37,4 +37,4 @@
 </div>
 <div class="ft-bot"><span>Kancelaria Adwokacka Julita Szataniak-Kulińska</span><span>NIP 7692236916 · REGON 386762794</span><span>© 2026</span></div>
 </div></footer>
-<script src="../../assets/site.js?v=11231059" defer></script></body></html>
+<script src="../../assets/site.js?v=11231107" defer></script></body></html>
